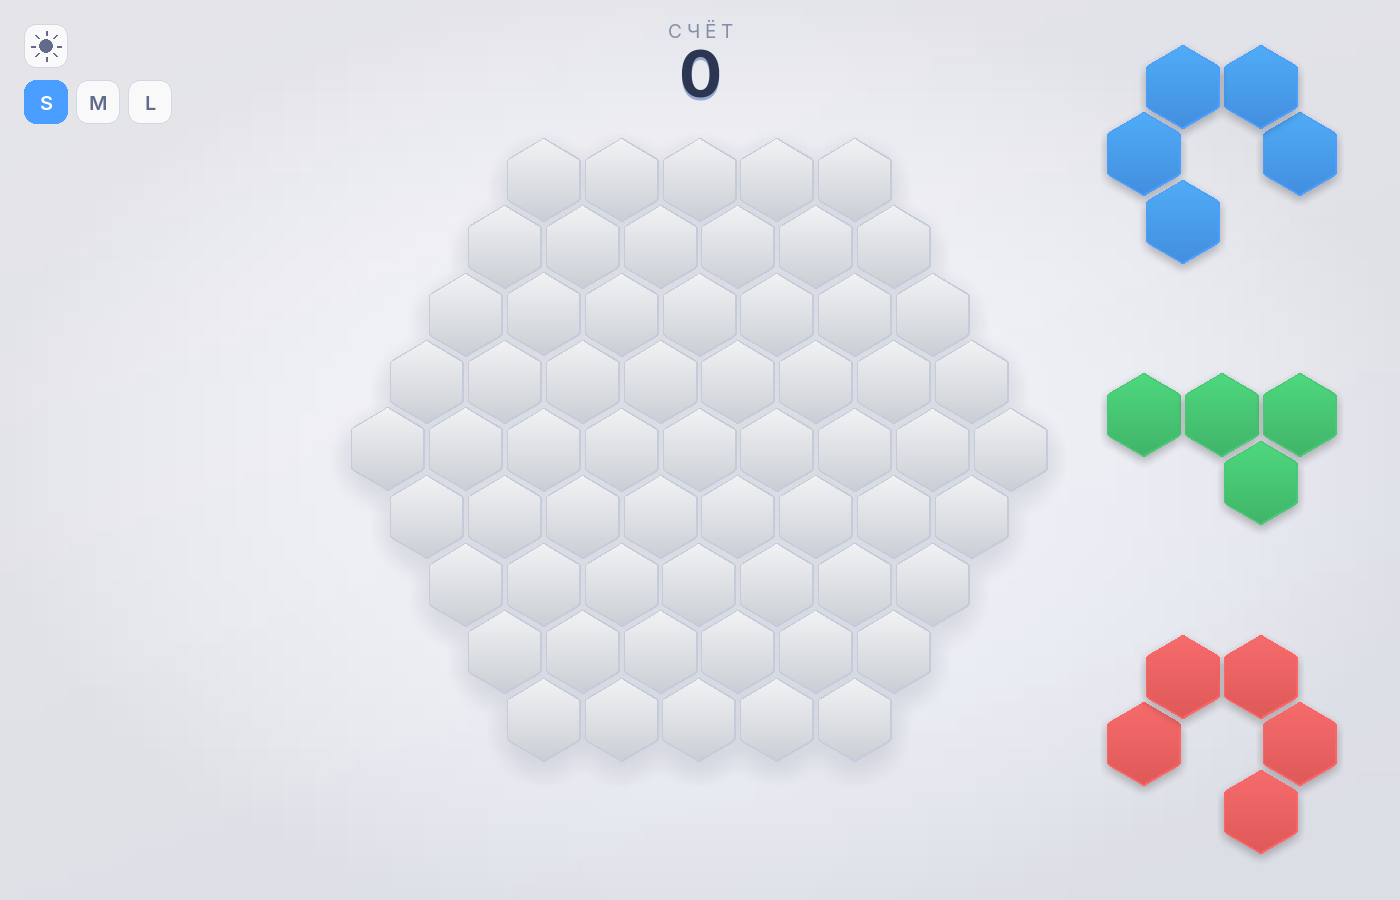
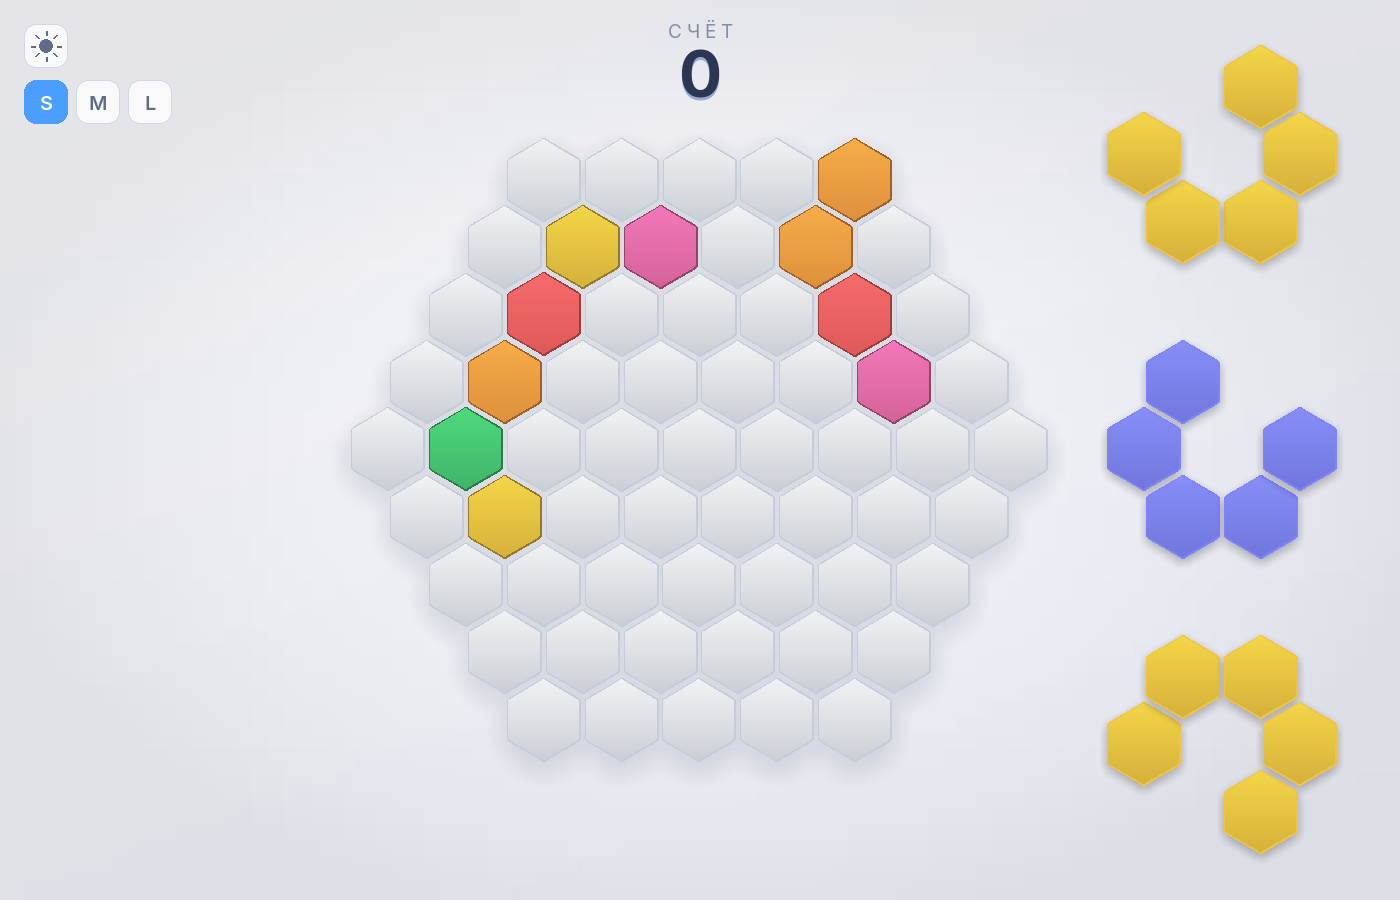
Тень не ложится на соседние гексы поля
Поставленный на поле гекс использовал то же состояние спрайта, что и гекс
фигуры в пуле, а у него есть мягкая тень. Тень выступала за пределы ячейки
и ложилась на соседние, из-за чего на сетке появлялся ложный рельеф.

Добавлено отдельное состояние placed:
- обводка темнее заливки, как у остальных ячеек поля, чтобы читалась сетка;
- тени нет: ячейки поля лежат в одной плоскости;
- мягкая тень осталась только у фигур в пуле и под курсором, где она
  отделяет фигуру от фона.

Замер по спрайтам: полупрозрачных пикселей (след тени) у placed — 0,
у figure — 553.

Проверки: 42 кадра анимаций сверены с полной перерисовкой — следов нет;
12 партий с фиксированным seed дают прежний результат (146 фигур); обе темы
проверены визуально, включая гексы, поставленные перетаскиванием.
Скриншоты и README обновлены.

diff --git a/sprites.py b/sprites.py
@@ -150,18 +150,31 @@ class SpriteCache:
         return step / SpriteCache.SCALE_STEPS
 
     def hex_sprite(self, state, color_index, scale, theme, fill=None, border=None, glow=None):
-        """state: 'empty' | 'marked' | 'figure'; color_index — только для figure."""
+        """Состояние гекса.
+
+        'empty'  — свободная ячейка поля;
+        'marked' — ячейка под перетаскиваемой фигурой;
+        'placed' — ячейка поля с поставленным гексом;
+        'figure' — гекс внутри фигуры (в пуле и под курсором).
+        """
         quantized = self.quantize(scale)
-        key = (theme.name, state, color_index if state == 'figure' else None, quantized)
+        colored = state in ('figure', 'placed')
+        key = (theme.name, state, color_index if colored else None, quantized)
         cached = self._cache.get(key)
         if cached is not None:
             return cached
 
-        if state == 'figure':
+        if state == 'placed':
+            # Ячейка поля: обводка темнее заливки, чтобы читалась сетка,
+            # и без тени — иначе тень ложится на соседние гексы.
             fill = theme.palette_color(color_index)
-            # У фигур в пуле обводка совпадает с заливкой: тёмный контур
-            # «нарезал» фигуру на отдельные гексы. Цвет обводки оставлен, чтобы
-            # край оставался ровным и сглаженным, а не размывался градиентом.
+            border = shade(fill, 0.62)
+            shadow_alpha = 0
+        elif state == 'figure':
+            fill = theme.palette_color(color_index)
+            # У фигур обводка совпадает с заливкой: тёмный контур «нарезал»
+            # фигуру на отдельные гексы. Цвет обводки оставлен, чтобы край
+            # оставался ровным и сглаженным, а не размывался градиентом.
             border = fill
             shadow_alpha = theme['sprite_shadow']
         elif state == 'marked':

diff --git a/classes.py b/classes.py
@@ -793,7 +793,7 @@ class Field(Layer):
         changed = None
         for field_hexagon in free_hexagons_under_figure:
             field_hexagon.content = True
-            field_hexagon.state = 'figure'
+            field_hexagon.state = 'placed'
             field_hexagon.color_index = figure.color_index
             changed = field_hexagon.bbox if changed is None else changed.union(field_hexagon.bbox)
         self.invalidate(changed)
